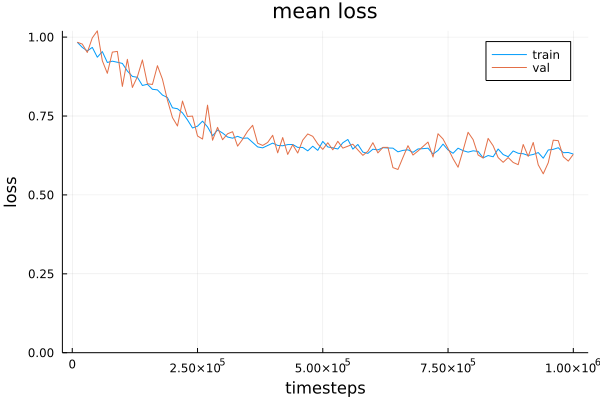
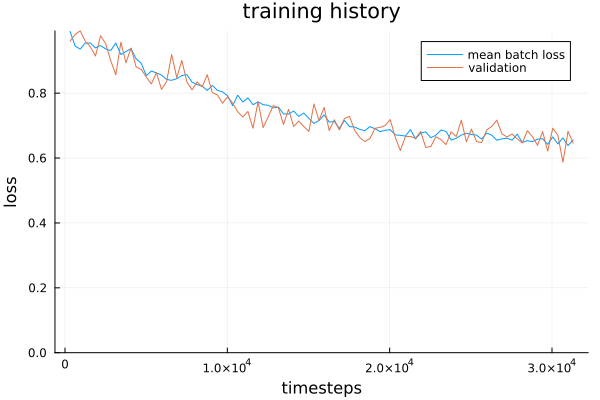
Update code in DDPM posts

diff --git a/_posts/2022-12-03-denoising-diffusion-1-spiral.md b/_posts/2022-12-03-denoising-diffusion-1-spiral.md
@@ -12,6 +12,8 @@ tags:  mathematics AI art diffusion 'machine learning' 'deep learning'
 
 _Denoising diffusion probabilistic models for AI art generation from first principles in Julia. This is part 1 of a 3 part series on these models._
 
+_Update 28 August 2023: code refactoring and update to Flux 0.13.11 explicit syntax._
+
 This is part of a series. The other articles are:
 - [Part 2: image generation with MNIST][image_diffusion].
 - [Part 3: classifier free guidance][classifier_free_guidance].
@@ -722,6 +724,9 @@ end
 
 eltype(::Type{<:GaussianDiffusion{V}}) where {V} = V
 
+Flux.@functor GaussianDiffusion
+Flux.trainable(g::GaussianDiffusion) = (; g.denoise_fn) # only the denoise_fn is trainable
+
 function GaussianDiffusion(
     V::DataType, βs::AbstractVector, data_shape::NTuple, denoise_fn
     )
@@ -771,7 +776,7 @@ function predict_start_from_noise(
     coeff1 .* x_t - coeff2 .* noise
 end
 
-function model_predictions(
+function denoise(
     diffusion::GaussianDiffusion, x::AbstractArray,
     timesteps::AbstractVector{Int}
     )
@@ -802,7 +807,7 @@ function p_sample(
     timesteps::AbstractVector{Int}, noise::AbstractArray
     ; clip_denoised::Bool=true, add_noise::Bool=true
     )
-    x_start, pred_noise = model_predictions(diffusion, x, timesteps)
+    x_start, pred_noise = denoise(diffusion, x, timesteps)
     if clip_denoised
         clamp!(x_start, -1, 1)
     end
@@ -824,7 +829,7 @@ diffusion = GaussianDiffusion(Vector{Float32}, βs, (2,), (x, t) -> randn(size(x
 XT = randn((2, 100))
 timesteps = fill(num_timesteps, 100)
 
-x_start, pred_noise = DenoisingDiffusion.model_predictions(diffusion, XT, timesteps)
+x_start, pred_noise = DenoisingDiffusion.denoise(diffusion, XT, timesteps)
 posterior_mean, posterior_variance = q_posterior_mean_variance(diffusion, x_start, XT, timesteps)
 noise =  randn(size(XT))
 x_prev = posterior_mean + sqrt.(posterior_variance) .* noise
@@ -842,10 +847,13 @@ function p_sample_loop(
     )
     T = eltype(eltype(diffusion))
     x = randn(T, shape) |> to_device
-    @showprogress "Sampling..." for i in diffusion.num_timesteps:-1:1
-        timesteps = fill(i, shape[end]) |> to_device;
+    @showprogress "Sampling..." for t in diffusion.num_timesteps:-1:1
+        timesteps = fill(t, shape[end]) |> to_device;
         noise =  randn(T, size(x)) |> to_device
-        x, x_start = p_sample(diffusion, x, timesteps, noise; clip_denoised=clip_denoised, add_noise=(i != 1))
+        x, x_start = p_sample(
+            diffusion, x, timesteps, noise
+            ; clip_denoised=clip_denoised, add_noise=(t != 1)
+        )
     end
     x
 end
@@ -880,10 +888,13 @@ function p_sample_loop_all(
     x_all = Array{T}(undef, size(x)..., 0) |> to_device
     x_start_all = Array{T}(undef, size(x)..., 0) |> to_device
     tdim = ndims(x_all)
-    @showprogress "Sampling..." for i in diffusion.num_timesteps:-1:1
-        timesteps = fill(i, shape[end]) |> to_device;
+    @showprogress "Sampling..." for t in diffusion.num_timesteps:-1:1
+        timesteps = fill(t, shape[end]) |> to_device;
         noise =  randn(T, size(x)) |> to_device
-        x, x_start = p_sample(diffusion, x, timesteps, noise; clip_denoised=clip_denoised, add_noise=(i != 1))
+        x, x_start = p_sample(
+            diffusion, x, timesteps, noise
+            ; clip_denoised=clip_denoised, add_noise=(t!= 1)
+        )
         x_all = cat(x_all, x, dims=tdim)
         x_start_all = cat(x_start_all, x_start, dims=tdim)
     end
@@ -1119,7 +1130,7 @@ struct SinusoidalPositionEmbedding{W<:AbstractArray}
 end
 
 Flux.@functor SinusoidalPositionEmbedding
-Flux.trainable(emb::SinusoidalPositionEmbedding) = () # mark it as an non-trainable array
+Flux.trainable(emb::SinusoidalPositionEmbedding) = (;) # mark it as an non-trainable array
 
 function SinusoidalPositionEmbedding(in::Int, out::Int)
     W = make_positional_embedding(out, in)
@@ -1262,7 +1273,10 @@ function p_losses(
     loss(model_out, noise)
 end
 
-function p_losses(diffusion::GaussianDiffusion, loss, x_start::AbstractArray{T, N}; to_device=cpu) where {T, N}
+function p_losses(
+    diffusion::GaussianDiffusion, loss, x_start::AbstractArray{T, N}
+    ; to_device=cpu
+    ) where {T, N}
     timesteps = rand(1:diffusion.num_timesteps, size(x_start, N)) |> to_device
     noise = randn(eltype(eltype(diffusion)), size(x_start)) |> to_device
     p_losses(diffusion, loss, x_start, timesteps, noise)
@@ -1274,61 +1288,56 @@ Here is also a custom function which additionally returns a training history, sa
 
 {%highlight julia %}
 using Flux: update!, DataLoader
-using Flux.Optimise: AbstractOptimiser
 using Flux.Zygote: sensitivity, pullback
 using Printf: @sprintf
 using ProgressMeter
 
-function train!(
-    loss, diffusion::GaussianDiffusion, data, opt::AbstractOptimiser, val_data;
+function train!(loss, model, data::DataLoader, opt_state, val_data;
     num_epochs::Int=10,
     save_after_epoch::Bool=false,
     save_dir::String=""
     )
     history = Dict(
-        "epoch_size" => count_observations(data),
-        "train_loss" => Float64[],
+        "epoch_size" => length(data),
+        "mean_batch_loss" => Float64[],
         "val_loss" => Float64[],
+        "batch_size" => data.batchsize
     )
     for epoch = 1:num_epochs
-        losses = Vector{Float64}()
+        print(stderr, "") # clear stderr for Progress
         progress = Progress(length(data); desc="epoch $epoch/$num_epochs")
-        params = Flux.params(diffusion) # keep here in case of data movement between devices (this might happen during saving)
-        for x in data
-            batch_loss, back = pullback(params) do
-                loss(diffusion, x)
+        total_loss = 0.0
+        for (idx, x) in enumerate(data)
+            batch_loss, grads = Flux.withgradient(model) do m
+                loss(m, x)
             end
-            grads = back(sensitivity(batch_loss))
-            Flux.update!(opt, params, grads)
-            push!(losses, batch_loss)
-            ProgressMeter.next!(progress; showvalues=[("batch loss", @sprintf("%.5f", batch_loss))])
+            total_loss += batch_loss
+            ProgressMeter.next!(
+                progress; 
+                showvalues=[("batch loss", @sprintf("%.5f", batch_loss))]
+                )
+            Flux.update!(opt_state, model, grads[1])
         end
         if save_after_epoch
-            path = joinpath(save_dir, "diffusion_epoch=$(epoch).bson")
-            let diffusion = cpu(diffusion) # keep main diffusion on device
-                BSON.bson(path, Dict(:diffusion => diffusion))
+            path = joinpath(save_dir, "model_epoch=$(epoch).bson")
+            let model = cpu(model) # keep main model on device
+                BSON.bson(path, Dict(:model => model))
             end
         end
-        update_history!(diffusion, history, loss, losses, val_data)
+        push!(history["mean_batch_loss"], total_loss / length(data))
+        @printf("mean batch loss: %.5f ; ", history["mean_batch_loss"][end])
+        update_history!(model, history, loss, val_data)
     end
     history
 end
 
-count_observations(data::D) where {D<:DataLoader} = count_observations(data.data)
-count_observations(data::Tuple) = count_observations(data[1])
-count_observations(data::AbstractArray{<:Any,N}) where {N} = size(data, N)
-count_observations(data) = length(data)
-
-function update_history!(diffusion, history, loss, train_losses, val_data)
-    push!(history["train_loss"], sum(train_losses) / length(train_losses))
-
+function update_history!(model, history, loss, val_data)
     val_loss = 0.0
     for x in val_data
-        val_loss += loss(diffusion, x)
+        val_loss += loss(model, x)
     end
-    push!(history["val_loss"], val_loss / length(val_data))
-
-    @printf("train loss: %.5f ; ", history["train_loss"][end])
+    val_loss /= length(val_data)
+    push!(history["val_loss"], val_loss)
     @printf("val loss: %.5f", history["val_loss"][end])
     println("")
 end
@@ -1344,14 +1353,17 @@ diffusion = GaussianDiffusion(Vector{Float32}, βs, (2,), model)
 
 diffusion = diffusion |> to_device
 
-data = Flux.DataLoader(X |> to_device; batchsize=32, shuffle=true);
+train_data = Flux.DataLoader(X |> to_device; batchsize=32, shuffle=true);
 X_val = normalize_neg_one_to_one(make_spiral(floor(Int, 0.1 * n_batch)))
 val_data = Flux.DataLoader(X_val |> to_device; batchsize=32, shuffle=false);
 loss_type = Flux.mse;
 loss(diffusion, x) = p_losses(diffusion, loss_type, x; to_device=to_device)
 opt = Adam(0.001);
-
-history = train!(loss, diffusion, data, opt, val_data; num_epochs=num_epochs)
+opt_state = Flux.setup(opt, diffusion)
+history = train!(
+    loss, diffusion, train_data, opt_state, val_data
+    ; num_epochs=100
+)
 {% endhighlight %}
 
 The training history:

diff --git a/_posts/2023-01-04-denoising-diffusion-3-guidance.md b/_posts/2023-01-04-denoising-diffusion-3-guidance.md
@@ -10,6 +10,8 @@ tags:  mathematics AI art diffusion 'machine learning' 'deep learning'
 
 _Classifier-free guidance for denoising diffusion probabilistic model in Julia._
 
+_Update 28 August 2023: code refactoring and update to Flux 0.13.11 explicit syntax._
+
 This is part of a series. The other articles are:
 - [Part 1: first principles][first_principles].
 - [Part 2: image generation with MNIST][image_diffusion].
@@ -131,11 +133,11 @@ As discussed above, for the special case of the `guidance_scale=1` inputs will b
 function p_sample(
     diffusion::GaussianDiffusion, x::AbstractArray, timesteps::AbstractVector{Int}, labels::AbstractVector{Int}, noise::AbstractArray;
     clip_denoised::Bool=true, add_noise::Bool=true, guidance_scale::AbstractFloat=1.0f0
-)
+    )
     if guidance_scale == 1.0f0
-        x_start, pred_noise = model_predictions(diffusion, x, timesteps, labels)
+        x_start, pred_noise = denoise(diffusion, x, timesteps, labels)
     else
-        x_start, pred_noise = _classifier_free_guidance(
+        x_start, pred_noise = classifier_free_guidance(
             diffusion, x, timesteps, labels; guidance_scale=guidance_scale
         )
     end
@@ -151,12 +153,12 @@ function p_sample(
 end
 {% endhighlight %}
 
-We need a new method for the `model_predictions` function to handle three inputs:
+We need a new method for the `denoise` function to handle three inputs:
 {% highlight julia %}
-function model_predictions(
+function denoise(
     diffusion::GaussianDiffusion,
     x::AbstractArray, timesteps::AbstractVector{Int}, labels::AbstractVector{Int}
-)
+    )
     noise = diffusion.denoise_fn(x, timesteps, labels)
     x_start = predict_start_from_noise(diffusion, x, timesteps, noise)
     x_start, noise
@@ -166,7 +168,7 @@ end
 Next is the implementation of classifier-free guidance through equation $\ref{eq:classifier-free-guidance}$.
 This code calculates both the conditioned noise and the unconditioned noise at the same time.
 {% highlight julia %}
-function _classifier_free_guidance(
+function classifier_free_guidance(
     diffusion::GaussianDiffusion,
     x::AbstractArray, timesteps::AbstractVector{Int}, labels::AbstractVector{Int}
     ; guidance_scale=1.0f0
@@ -379,7 +381,6 @@ Plotting all at once:
 	alt="combined_patterns"
 	>
 </figure>
-
 
 Make the labels. Remember that 1 is reserved for random choice.
 {% highlight julia %}

diff --git a/_posts/2022-12-29-denoising-diffusion-2-unet.md b/_posts/2022-12-29-denoising-diffusion-2-unet.md
@@ -10,6 +10,8 @@ tags:  mathematics AI art diffusion 'machine learning' 'deep learning'
 
 _A denoising diffusion probabilistic model for generating numbers based on the MNIST dataset. The underlying machine learning model is a U-Net model, which is a convolutional autoencoder with skip connections. A large part of this post is dedicated to implementing this model architecture in Julia._
 
+_Update 28 August 2023: code refactoring and update to Flux 0.13.11 explicit syntax._
+
 This is part of a series. The other articles are:
 - [Part 1: first principles][first_principles].
 - [Part 3: classifier free guidance][classifier_free_guidance].
@@ -1084,13 +1086,16 @@ diffusion = GaussianDiffusion(Vector{Float32}, βs, data_shape, model)
 
 Train the model using the functions from [part 1-training][first_principles_train]:
 {% highlight julia %}
-data = Flux.DataLoader(train_x |> to_device; batchsize=32, shuffle=true);
+train_data = Flux.DataLoader(train_x |> to_device; batchsize=32, shuffle=true);
 val_data = Flux.DataLoader(val_x |> to_device; batchsize=32, shuffle=false);
 loss(diffusion, x) = p_losses(diffusion, loss_type, x; to_device=to_device)
 opt = Adam(learning_rate)
-
 output_directory = "outputs\\MNIST_" * Dates.format(now(), "yyyymmdd_HHMM")
-history = train!(loss, diffusion, data, opt, val_data; num_epochs=15, save_dir=output_directory)
+opt_state = Flux.setup(opt, diffusion)
+history = train!(
+    loss, diffusion, train_data, opt_state, val_data
+    ; num_epochs=20
+)
 {% endhighlight %}  
 
 [first_principles_train]: /coding/2022/12/03/denoising-diffusion-1-spiral#training
@@ -1123,7 +1128,7 @@ Here is the resulting reverse process (left) and first image estimates made usin
     </video>
 </figure>
 
-### Evaluation 
+## Evaluation 
 
 We would now like to evaluate how good our image generation model is.
 In [part 1][first_principles] we had a clear defined target - a spiral defined by mathematical equations - and hence a clear defined measure of error: the shortest distance from each point to the spiral.
@@ -1270,7 +1275,7 @@ This is good enough for us to consider it a perfect oracle.
 
 After training we can load the model:
 {% highlight julia %}
-classifier_path = "..\\models\\LeNet5\\model.bson"
+classifier_path = "models\\LeNet5\\model.bson"
 classifier = BSON.load(classifier_path)[:model]
 {% endhighlight %}
 
